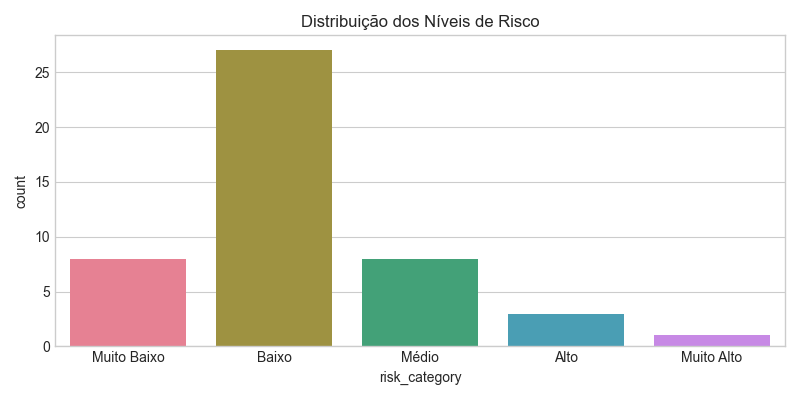
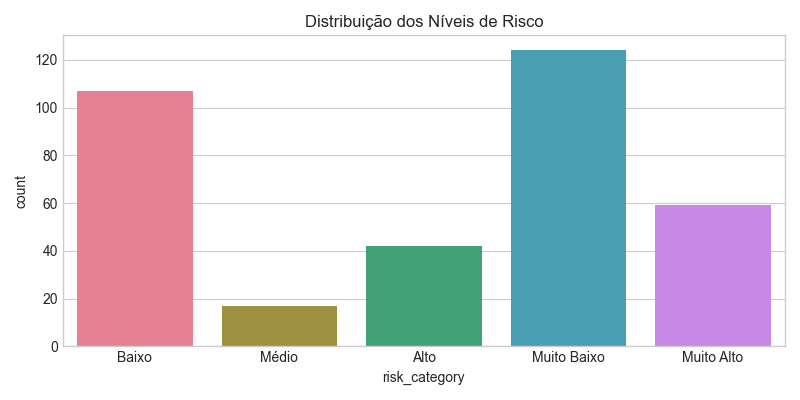
Modificação ssl e adição de tikers ao script python

diff --git a/backend/src/config/database.js b/backend/src/config/database.js
@@ -7,9 +7,7 @@ const connectionString = process.env.DATABASE_URL;
 
 const pool = new Pool({
   connectionString,
-  ssl: process.env.NODE_ENV === 'production' 
-    ? { rejectUnauthorized: false }
-    : false
+  ssl: { rejectUnauthorized: false }
 });
 
 // Tratamento de reconexão

diff --git a/backend/python/run_classification.py b/backend/python/run_classification.py
@@ -50,15 +50,36 @@ logging.basicConfig(filename=LOG_FILE,
 # =========== FUNÇÕES UTILITÁRIAS E ETL =====================
 
 def get_b3_tickers() -> List[str]:
-    tickers = [
-        'PETR4', 'VALE3', 'ITUB4', 'BBDC4', 'ABEV3', 'B3SA3', 'WEGE3',
-        'RENT3', 'BBAS3', 'PETR3', 'ITSA4', 'SUZB3', 'EQTL3', 'RADL3',
-        'JBSS3', 'BBSE3', 'SANB11', 'HYPE3', 'UGPA3', 'BRFS3', 'CMIG4',
-        'LREN3', 'BBDC3', 'VIVT3', 'MGLU3', 'GGBR4', 'EMBR3', 'RAIL3',
-        'CCRO3', 'TOTS3', 'KLBN11', 'CIEL3', 'SULA11', 'ENEV3', 'CSAN3',
-        'PCAR3', 'CSNA3', 'FLRY3', 'MRFG3', 'SBSP3', 'AZUL4', 'AMER3',
-        'MULT3', 'CYRE3', 'BRML3', 'COGN3', 'BPAC11', 'YDUQ3', 'TAEE11', 'GOAU4'
-    ]
+    tickers = [  
+        "JBSS3","BBAS3","COGN3","MGLU3","AZUL4","PETR4","ABEV3","GOLL4","B3SA3","ITSA4","LREN3","VAMO3","BBDC4","ITUB4",  
+        "CVCB3","VALE3","RENT3","CSAN3","BHIA3","ASAI3","GGBR4","BEEF3","RADL3","GMAT3","SUZB3","MRVE3","PRIO3","HAPV3",  
+        "PETR3","ENEV3","CMIG4","RAIL3","CSNA3","ANIM3","POMO4","YDUQ3","VIVT3","CXSE3","CPLE6","SRNA3","RAIZ4","OIBR3",  
+        "LWSA3","CPLE3","IFCM3","PETZ3","GOAU4","PCAR3","EQTL3","TIMS3","ELET3","SIMH3","AZZA3","MOVI3","CMIN3","USIM5",  
+        "EMBR3","BBDC3","VIVA3","NTCO3","VBBR3","BRAV3","WEGE3","BRFS3","SMFT3","UGPA3","BBSE3","DXCO3","KLBN11","CBAV3",  
+        "ECOR3","MOTV3","ALOS3","BPAC11","MYPK3","RCSL4","RDOR3","CYRE3","TEND3","RECV3","AZEV4","JHSF3","AZTE3","TOTS3",  
+        "IGTI11","CEAB3","MRFG3","HYPE3","FLRY3","BRAP4","HBSA3","CASH3","RAPT4","AURE3","MULT3","GFSA3","AZEV3","CSMG3",  
+        "LIGT3","SANB11","CURY3","AMER3","STBP3","QUAL3","LJQQ3","DIRR3","GGPS3","BPAN4","BRKM5","SBSP3","ALUP11",  
+        "ZAMP3","ENGI11","INTB3","SBFG3","PSSA3","GRND3","POSI3","KLBN4","HBOR3","ODPV3","PLPL3","SLCE3","EZTC3","TAEE11",  
+        "ISAE4","ALPA4","EGIE3","MLAS3","SAPR4","MDNE3","SYNE3","ENJU3","ONCO3","PMAM3","VVEO3","BRSR6","GUAR3","ELET6",  
+        "SAPR11","KEPL3","EVEN3","IRBR3","TTEN3","TRIS3","SMTO3","VULC3","MTRE3","CPFE3","DASA3","CSED3","WIZC3","SEER3",  
+        "PTBL3","PGMN3","CAML3","CMIG3","LAVV3","PORT3","ABCB4","FESA4","JSLG3","ARML3","RANI3","MILS3","POMO3","KLBN3",  
+        "MDIA3","BMOB3","NEOE3","ITUB3","ORVR3","SEQL3","PRNR3","SHUL4","BRBI11","TGMA3","VLID3","VTRU3","TUPY3","BMGB4",  
+        "JALL3","TFCO4","LEVE3","PNVL3","HBRE3","SOJA3","BLAU3","AMAR3","FIQE3","ESPA3","TASA4","LOGG3","MATD3","OPCT3",  
+        "DESK3","MEAL3","SAPR3","PFRM3","AERI3","USIM3","RNEW4","MELK3","VITT3","AGRO3","TECN3","RNEW3","FRAS3","ETER3",  
+        "RCSL3","AMOB3","ROMI3","BRST3","LVTC3","PINE4","TAEE4","UNIP6","DEXP3","SANB4","BIOM3","ITSA3","EUCA4","ALPK3",  
+        "AMBP3","PTNT4","PDTC3","VSTE3","SANB3","BRAP3","OIBR4","TAEE3","AVLL3","DMVF3","FHER3","LPSB3","RSID3","LUPA3",  
+        "ALLD3","GGBR3","DEXP4","FICT3","EQPA3","AGXY3","WHRL4","DOTZ3","SHOW3","IGTI3","TRAD3","TCSA3","ELMD3","BRKM3",  
+        "BEES3","AALR3","LAND3","CSUD3","GOAU3","ALUP4","AMAR11","INEP3","HAGA4","VIVR3","SCAR3","BAZA3","BOBR4","UCAS3",  
+        "CGRA4","RNEW11","RPMG3","HOOT4","CAMB3","TASA3","NGRD3","ALPA3","UNIP3","NORD3","AZEV11","MNDL3","BPAC3","PINE3",  
+        "RDNI3","ENGI3","LOGN3","BPAC5","CEBR6","BDLL4","BEES4","EMAE4","HAGA3","EUCA3","WEST3","OSXB3","GEPA4","BGIP4",  
+        "REAG3","EKTR4","CGRA3","AFLT3","NEXP3","CTSA4","MTSA4","CCTY3","CPLE5","TELB4","CEEB3","TELB3","DOHL4","REDE3",  
+        "MGEL4","SNSY5","COCE3","PPLA11","CGAS5","WLMM4","SNSY3","MOAR3","UNIP5","MNPR3","BALM3","EALT3","BDLL3","RPAD5",  
+        "ENMT3","SOND5","PATI3","WLMM3","CEBR5","CEDO4","PTNT3","BSLI3","PLAS3","GSHP3","RPAD3","DTCY3","BMKS3","RSUL4",  
+        "EKTR3","GEPA3","BALM4","LUXM4","MWET4","ESTR4","MRSA3B","EQMA3B","CRPG6","CRPG3","BMIN4","FESA3","BRKM6","FIEI3",  
+        "BMEB3","ATMP3","CLSC3","TKNO4","PEAB4","BAUH4","PSVM11","CTSA3","PATI4","DOHL3","BNBR3","SOND6","CTKA4","CTKA3",  
+        "HBTS5","MBLY3","PEAB3","PINE11","CBEE3","CRFB3","USIM6","FRIO3","CGAS3","BGIP3","BMIN3","AHEB5","MTSA3","LIPR3",  
+        "GPAR3","BRSR5","HETA4","MAPT3"  
+]  
     return tickers
 
 def fetch_stock_data(ticker: str, period: str = PERIOD) -> Optional[pd.DataFrame]:
@@ -192,6 +213,18 @@ class StockDataHandler:
         assert DATABASE_URL, "DATABASE_URL não configurada."
         conn = psycopg2.connect(DATABASE_URL, sslmode='require')
         cur = conn.cursor()
+        MAX_BIGINT = 9223372036854775807  
+
+        def cap_bigint(val):  
+            try:  
+                if pd.isna(val):  
+                    return None  
+                if abs(float(val)) > MAX_BIGINT:  
+                    return None  
+                return val  
+            except:  
+                return None  
+            
         for _, row in df_all.iterrows():
             try:
                 cur.execute("""
@@ -230,7 +263,7 @@ class StockDataHandler:
                         updated_at = CURRENT_TIMESTAMP
                 """, (
                     row['ticker'], row.get('company_name'), row.get('sector'), row.get('industry'),
-                    row.get('market_cap'), row.get('pe_ratio'), row.get('price_to_book'), row.get('roe'),
+                    cap_bigint(row.get('market_cap')), row.get('pe_ratio'), row.get('price_to_book'), row.get('roe'),
                     row.get('dividend_yield'), row.get('profit_margins'), row.get('gross_margins'), row.get('ebitda_margins'),
                     row.get('enterprise_value'), row.get('revenue'), row.get('website'), row.get('description'),
                     row.get('volatility'), row.get('max_drawdown'), row.get('beta'),row.get('mean_return'), 
@@ -238,6 +271,7 @@ class StockDataHandler:
                 ))
             except Exception as err:
                 logging.error(f"Erro ao inserir {row['ticker']} no Supabase: {err}")
+                conn.rollback()
         conn.commit()
         cur.close()
         conn.close()
